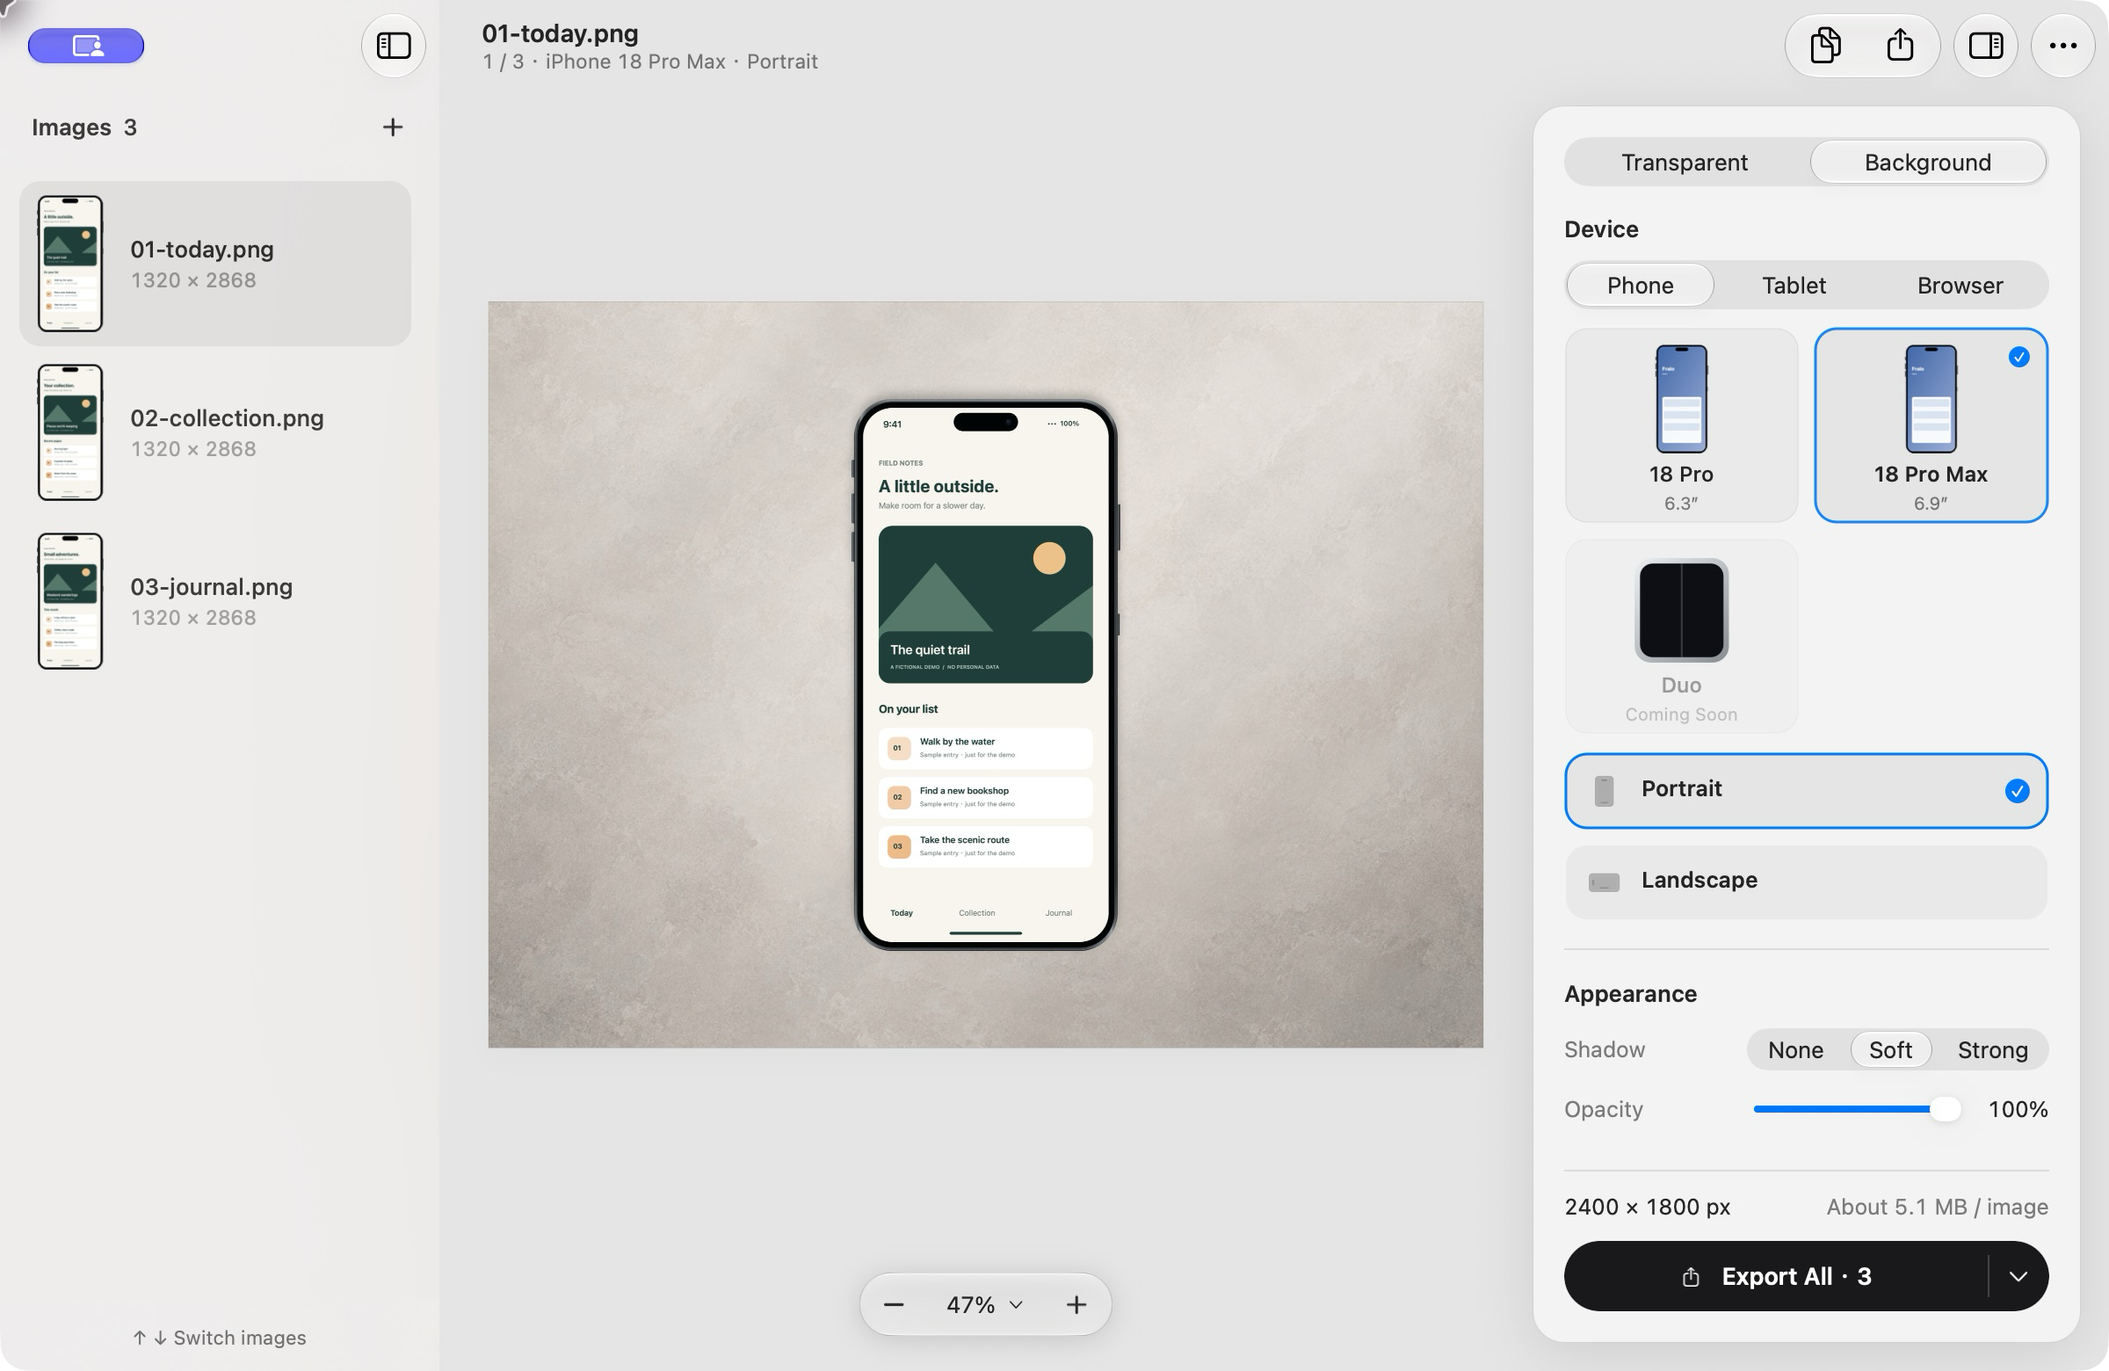
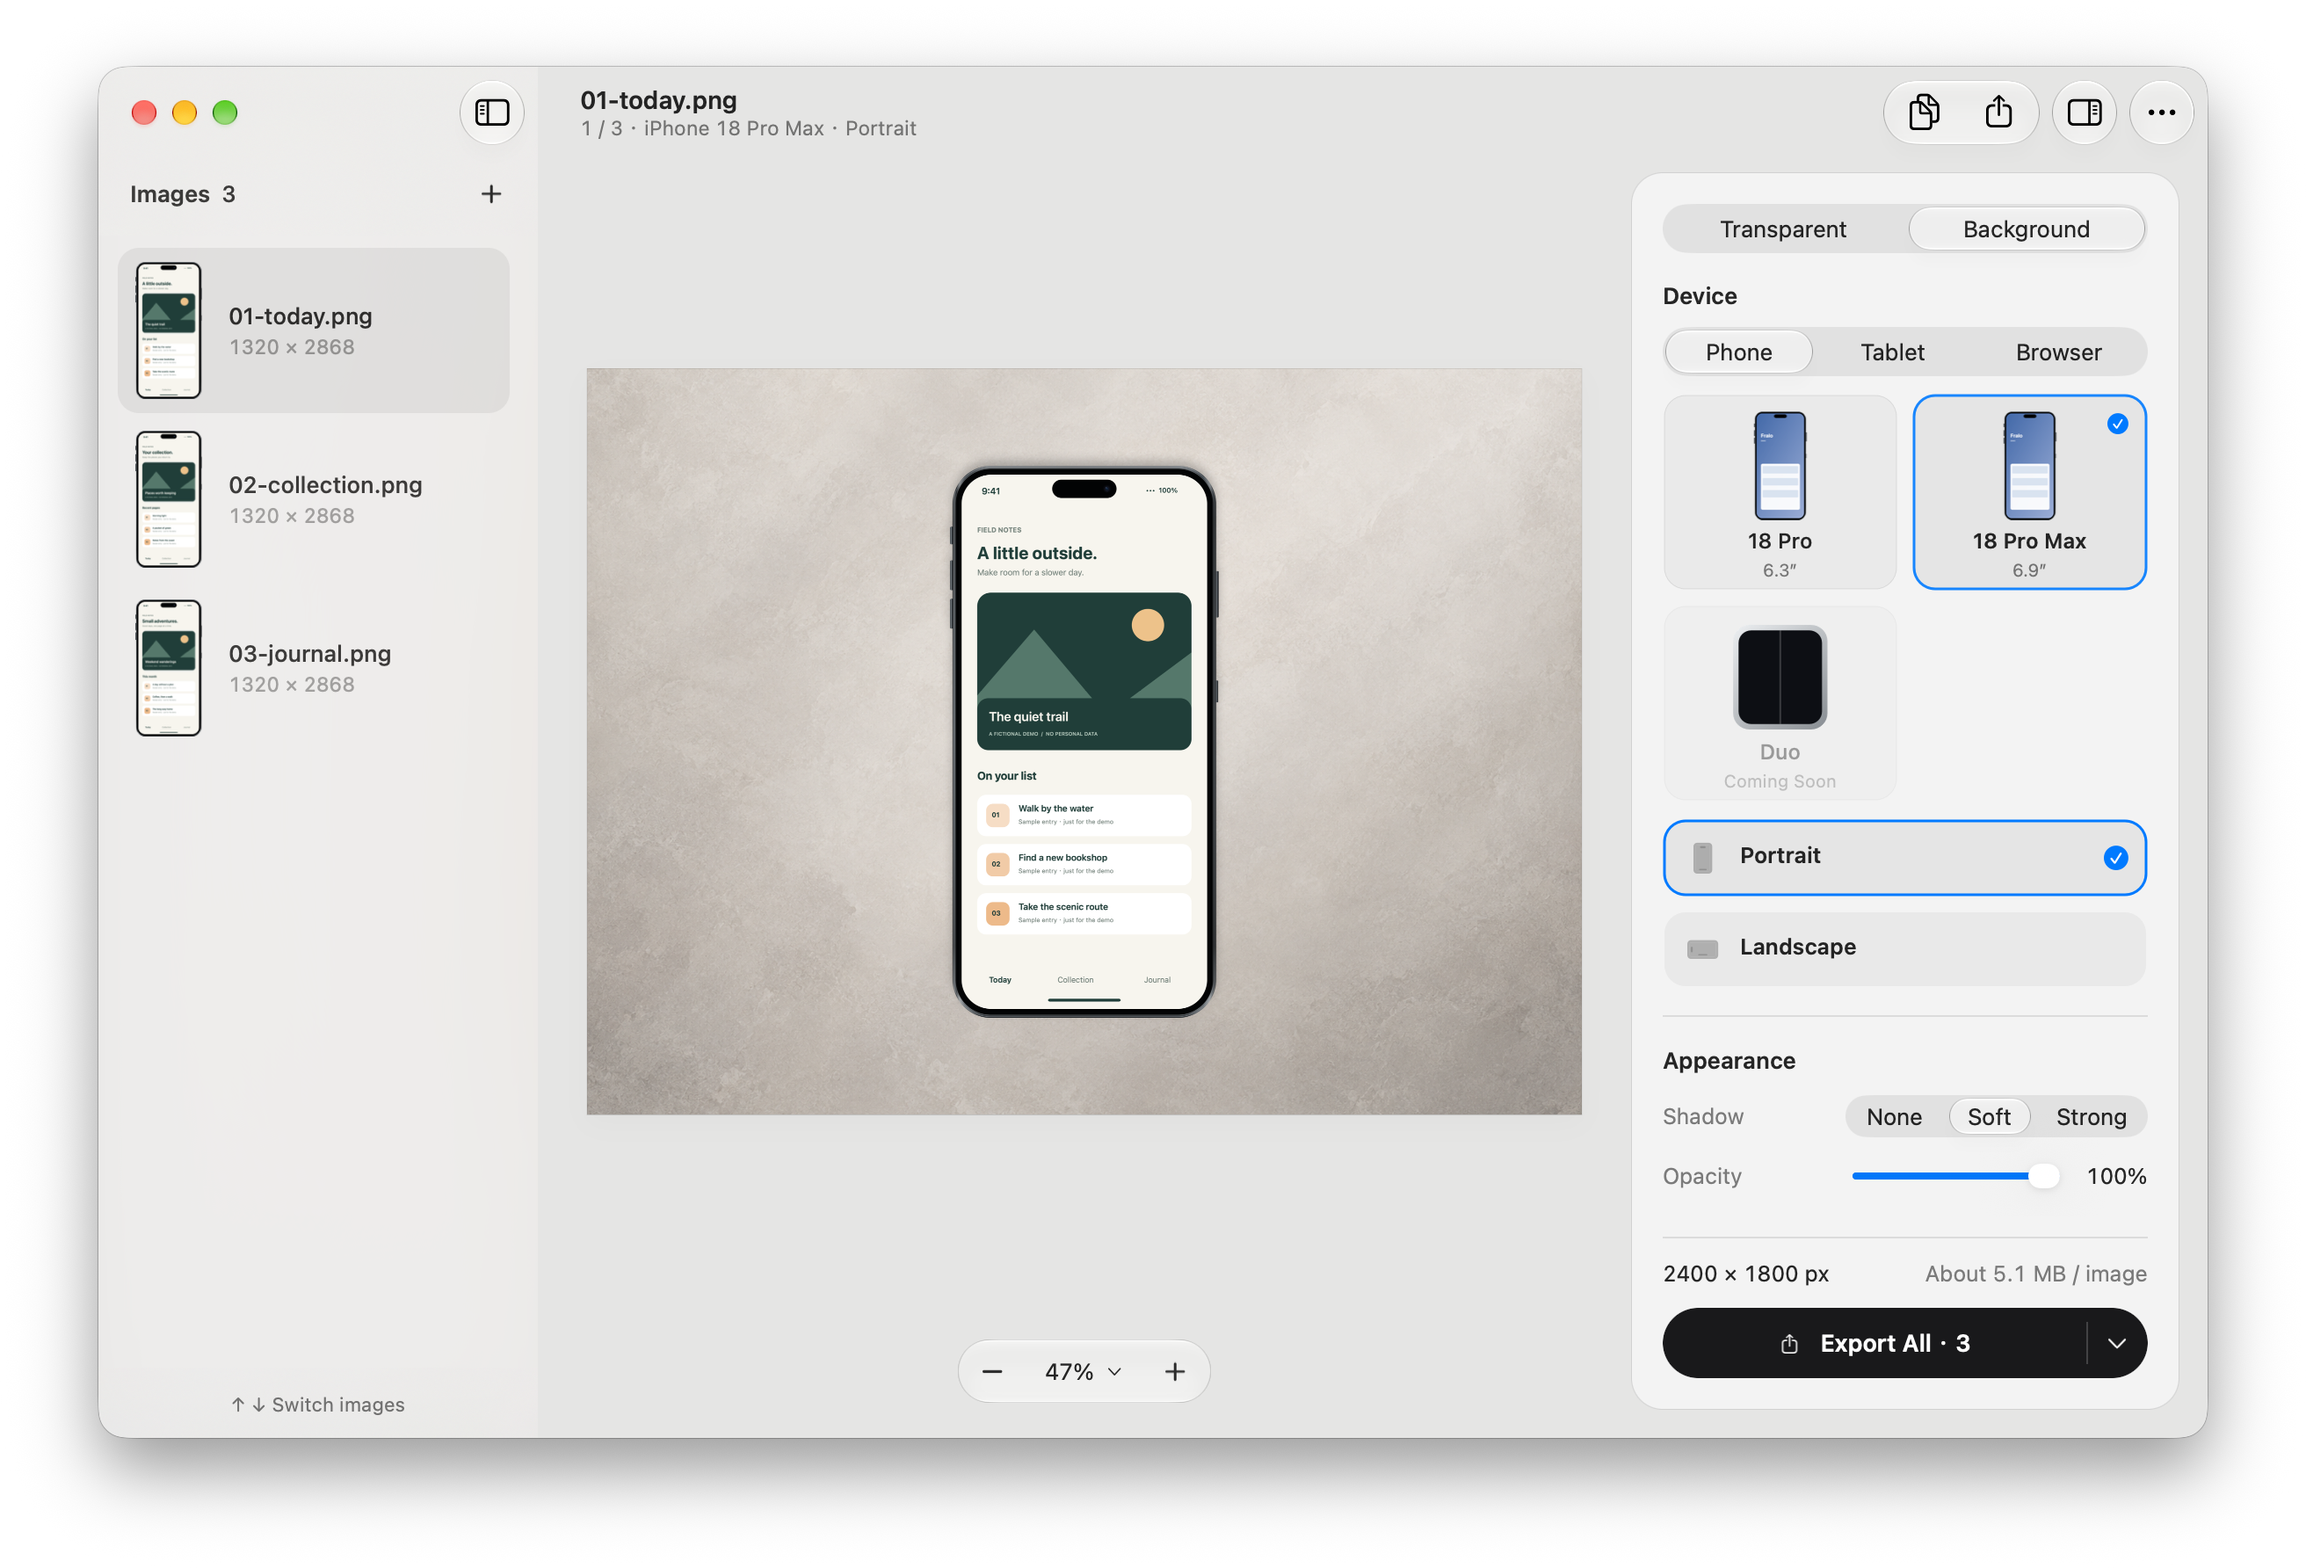
[FRALO-39] Preserve native window shadows in English README screenshots
Replace the English light and dark README images with complete native macOS window captures, preserving their shadows and transparent margins. Update the alt text and capture provenance while leaving Chinese content unchanged.

Verify the screenshots, image links, dimensions, hashes, localization guards, and public source checks. CI and Plane task synchronization passed.

diff --git a/docs/assets/README.md b/docs/assets/README.md
@@ -1,17 +1,21 @@
 # Public demo media
 
-- workbench-light.png, workbench-dark.png: the current Simplified Chinese workbench
-  in light and dark appearance, used by README.zh-CN.md.
-- workbench-en-light.png, workbench-en-dark.png: the same workbench in English, used by
-  README.md. All four images were captured on 2026-11-02 from source commit
-  `915170af3e74901220a3761512a4f146db240283` using the isolated Workbench Preview,
-  with the three generated Field Notes inputs, an iPhone 18 Pro Max frame, and a warm
-  4:3 background composition. The window is 1200 × 780 pt: light captures are
-  2400 × 1560 px (2×) and dark captures are 1200 × 780 px (1×), as returned by the
-  capture tool. Images contain the actual window without desktop content or system
-  shadow. The README
-  display width is capped at 1200 px; GitHub scales it to the available content width.
-  The UI is captured as rendered, without redrawing or substituting translated text.
+- workbench-light.png, workbench-dark.png: the Simplified Chinese workbench in
+  light and dark appearance, retained unchanged for README.zh-CN.md. Captured on
+  2026-11-02 from source commit `915170af3e74901220a3761512a4f146db240283` through
+  the computer-use window screenshot API. The JPEG sources were converted to PNG
+  without further lossy encoding; light is 2400 × 1560 px and dark is 1200 × 780 px.
+- workbench-en-light.png, workbench-en-dark.png: the English workbench in light and
+  dark appearance, recaptured on 2026-11-02 using native macOS single-window capture
+  for README.md. Both are 2624 × 1784 px lossless PNGs, including the complete
+  1200 × 780 pt window at 2×, native system shadow, and transparent space around it.
+  The window was not shared with a live capture session, so the traffic-light
+  controls are visible without a purple sharing indicator. No cursor or desktop
+  content is included. The UI and shadow have not been redrawn.
+  The preview uses the same application source as merged commit
+  `7dbff3209e2313c94e23c23acf7471ffce8a364d`, with three generated Field Notes
+  inputs, an iPhone 18 Pro Max frame, and a warm 4:3 background composition.
+  README.md displays the image at up to 1200 px wide, scaled to available space.
 - background-1.jpg, background-2.jpg, background-3.jpg: 3:4 background compositions
   (warm preset, gradient, sage preset) rendered by FraloCore, scaled to 1000 px tall
   for the README.
@@ -21,11 +25,12 @@
 
 The input screens are generated by scripts/generate-demo.swift and licensed under MIT.
 No personal screenshots, Finder dialogs, file paths, desktop content, or third-party
-App screens are included. Workbench captures are taken from the running app through
-the native computer-use window screenshot API. Its JPEG captures are converted to PNG
-without further lossy encoding; no screenshot content is reconstructed. To reproduce:
-use `scripts/run-workbench-preview.sh` with `--preview-language=en` or
-`--preview-language=zh-Hans`, `--preview-window=1200x780`, and
-`--preview-appearance=light` or `--preview-appearance=dark` to reproduce the window.
-Import `examples/01-today.png`, `02-collection.png`, and `03-journal.png`, then choose the
-background composition in the inspector.
+App screens are included. To reproduce the English captures, build and launch the
+isolated Workbench Preview with `scripts/run-workbench-preview.sh`, using
+`--preview-language=en`, `--preview-window=1200x780`, and
+`--preview-appearance=light` or `--preview-appearance=dark`.
+Import `examples/01-today.png`, `02-collection.png`, and `03-journal.png`, then choose
+the background composition. Wait for the phone and all thumbnails to finish rendering.
+Capture the complete window with macOS `screencapture -l <window-id>` and retain its
+native shadow. Do not attach a live window-sharing session before capturing, and
+keep each capture under a unique filename while checking the saved image.

diff --git a/README.md b/README.md
@@ -23,7 +23,7 @@
 
 <picture>
   <source media="(prefers-color-scheme: dark)" srcset="docs/assets/workbench-en-dark.png">
-  <img src="docs/assets/workbench-en-light.png" width="1200" alt="The English Fralo workbench with three generated Field Notes screenshots, an iPhone 18 Pro Max frame, and a warm background">
+  <img src="docs/assets/workbench-en-light.png" width="1200" alt="The complete English Fralo workbench with native window shadow, three generated Field Notes screenshots, an iPhone 18 Pro Max frame, and a warm background">
 </picture>
 
 Fralo is a native macOS app and command-line tool that puts your screenshots inside
